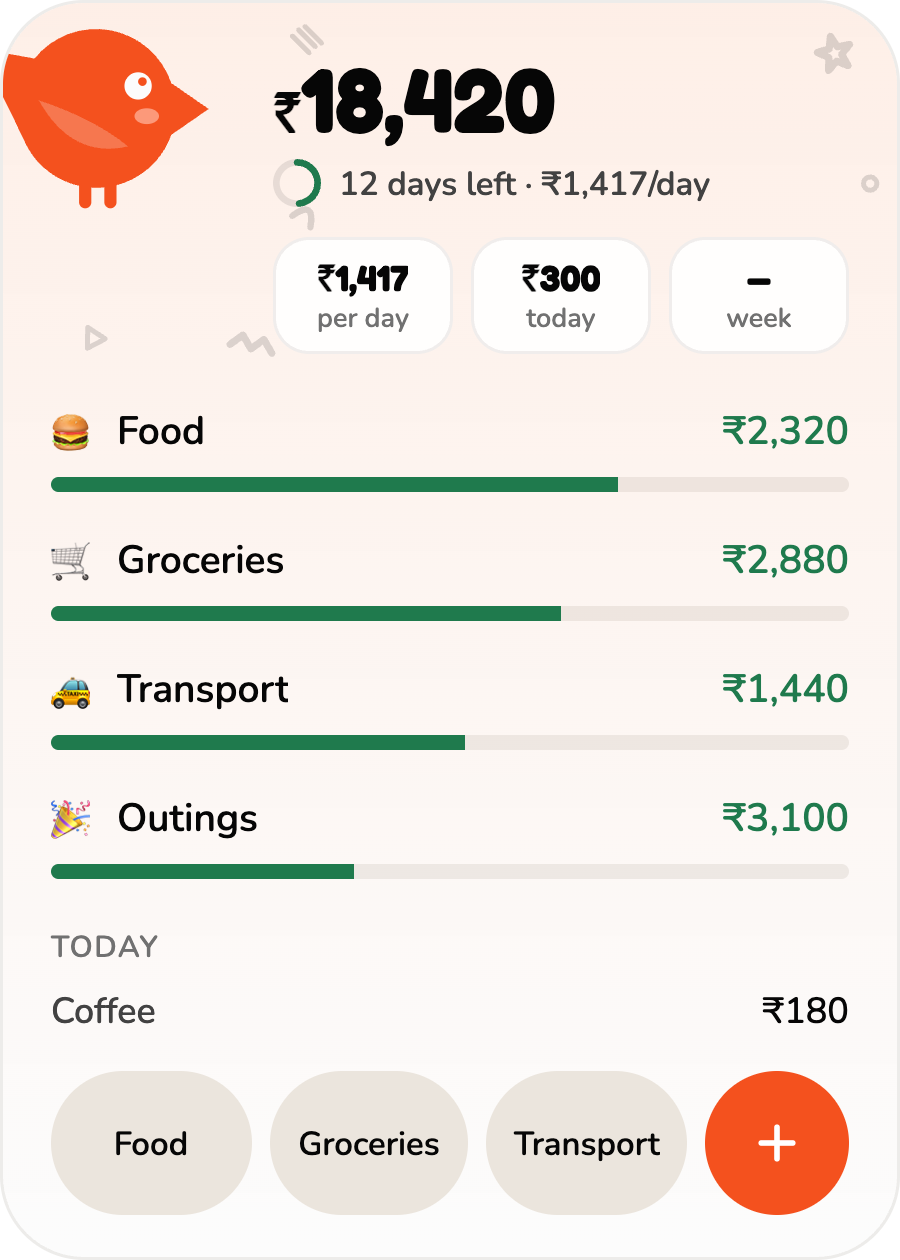
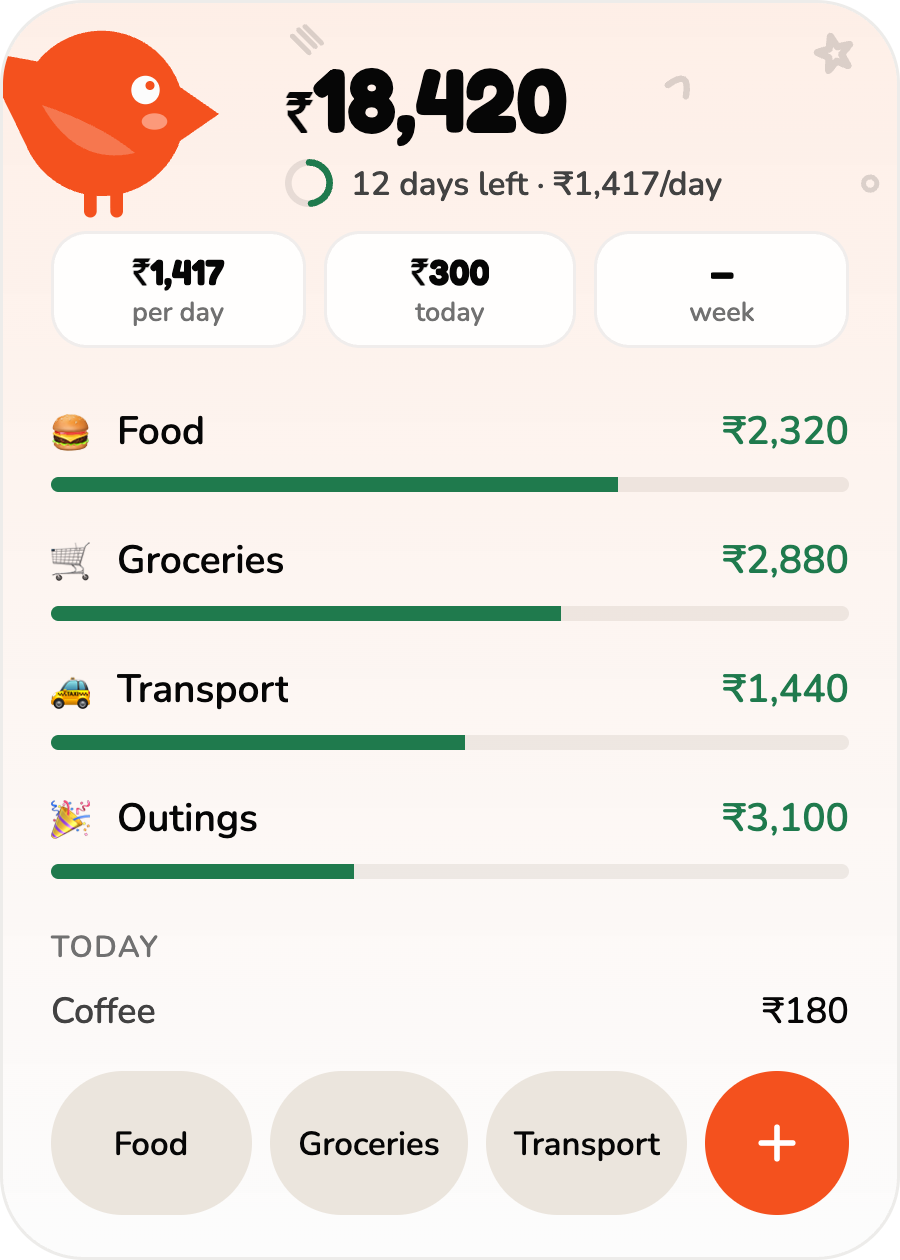
feat(widgets): large widget's stat pills run the full card width
The per day / today / week pills sat in the column beside the bird, which
left a dead gap under the bird and squeezed each pill to a third of that
column, too narrow for a large amount. They now sit on their own row
across the whole band under the bird and the number. The bird grows to
100dp to fill the band, and the band's doodles drop the two glyphs that
would land under the pills.

diff --git a/src/widgets/EnvelopeWidget.tsx b/src/widgets/EnvelopeWidget.tsx
@@ -48,9 +48,10 @@ export function EnvelopeWidget({
         trend?.dir === "up" ? tokens.coral : trend?.dir === "down" ? tokens.mint : tokens.text,
     },
   ];
-  // Bird hangs off the top-left corner (the surface clips it); the number
-  // and pills take the rest of the band to its right.
-  const bird = 96;
+  // Bird hangs off the top-left corner (the surface clips it) with the
+  // number to its right; the pills run the full width underneath so a long
+  // amount still fits in them.
+  const bird = 100;
   const birdW = bird - 14;
   const bandHeight = layout.pills ? 122 : 86;
 
@@ -142,13 +143,23 @@ export function EnvelopeWidget({
               />
             </FlexWidget>
           </FlexWidget>
-          {layout.pills && (
+        </FlexWidget>
+        {layout.pills && (
+          <FlexWidget
+            style={{
+              width: "match_parent",
+              height: "match_parent",
+              flexDirection: "column",
+              justifyContent: "flex-end",
+              paddingHorizontal: 16,
+              paddingBottom: 10,
+            }}
+          >
             <FlexWidget
               style={{
                 width: "match_parent",
                 flexDirection: "row",
                 flexGap: 6,
-                marginTop: 10,
               }}
             >
               {pills.map((pill) => (
@@ -189,8 +200,8 @@ export function EnvelopeWidget({
                 </FlexWidget>
               ))}
             </FlexWidget>
-          )}
-        </FlexWidget>
+          </FlexWidget>
+        )}
       </OverlapWidget>
 
       <FlexWidget

diff --git a/src/widgets/doodles.ts b/src/widgets/doodles.ts
@@ -31,14 +31,13 @@ const SQUARE: Spot[] = [
   { glyph: "stripes", x: 0.55, y: 0.6, size: 14, rotate: 0 },
 ];
 
-/** The large widget's header band: bird top-left, ring + number top-right,
- *  pills along the bottom right. */
+/** The large widget's header band: bird top-left, number and label to its
+ *  right, pills across the full width underneath. Only the strip above and
+ *  beside the number is free, so the band gets fewer glyphs than the card. */
 const WIDE: Spot[] = [
   { glyph: "star", x: 0.93, y: 0.12, size: 20, rotate: -14 },
-  { glyph: "arc", x: 0.34, y: 0.56, size: 18, rotate: 32 },
+  { glyph: "arc", x: 0.76, y: 0.2, size: 18, rotate: 32 },
   { glyph: "ring", x: 0.97, y: 0.48, size: 14, rotate: 0 },
-  { glyph: "triangle", x: 0.1, y: 0.9, size: 14, rotate: -28 },
-  { glyph: "zigzag", x: 0.28, y: 0.92, size: 20, rotate: 12 },
   { glyph: "stripes", x: 0.34, y: 0.08, size: 14, rotate: 0 },
 ];
 
